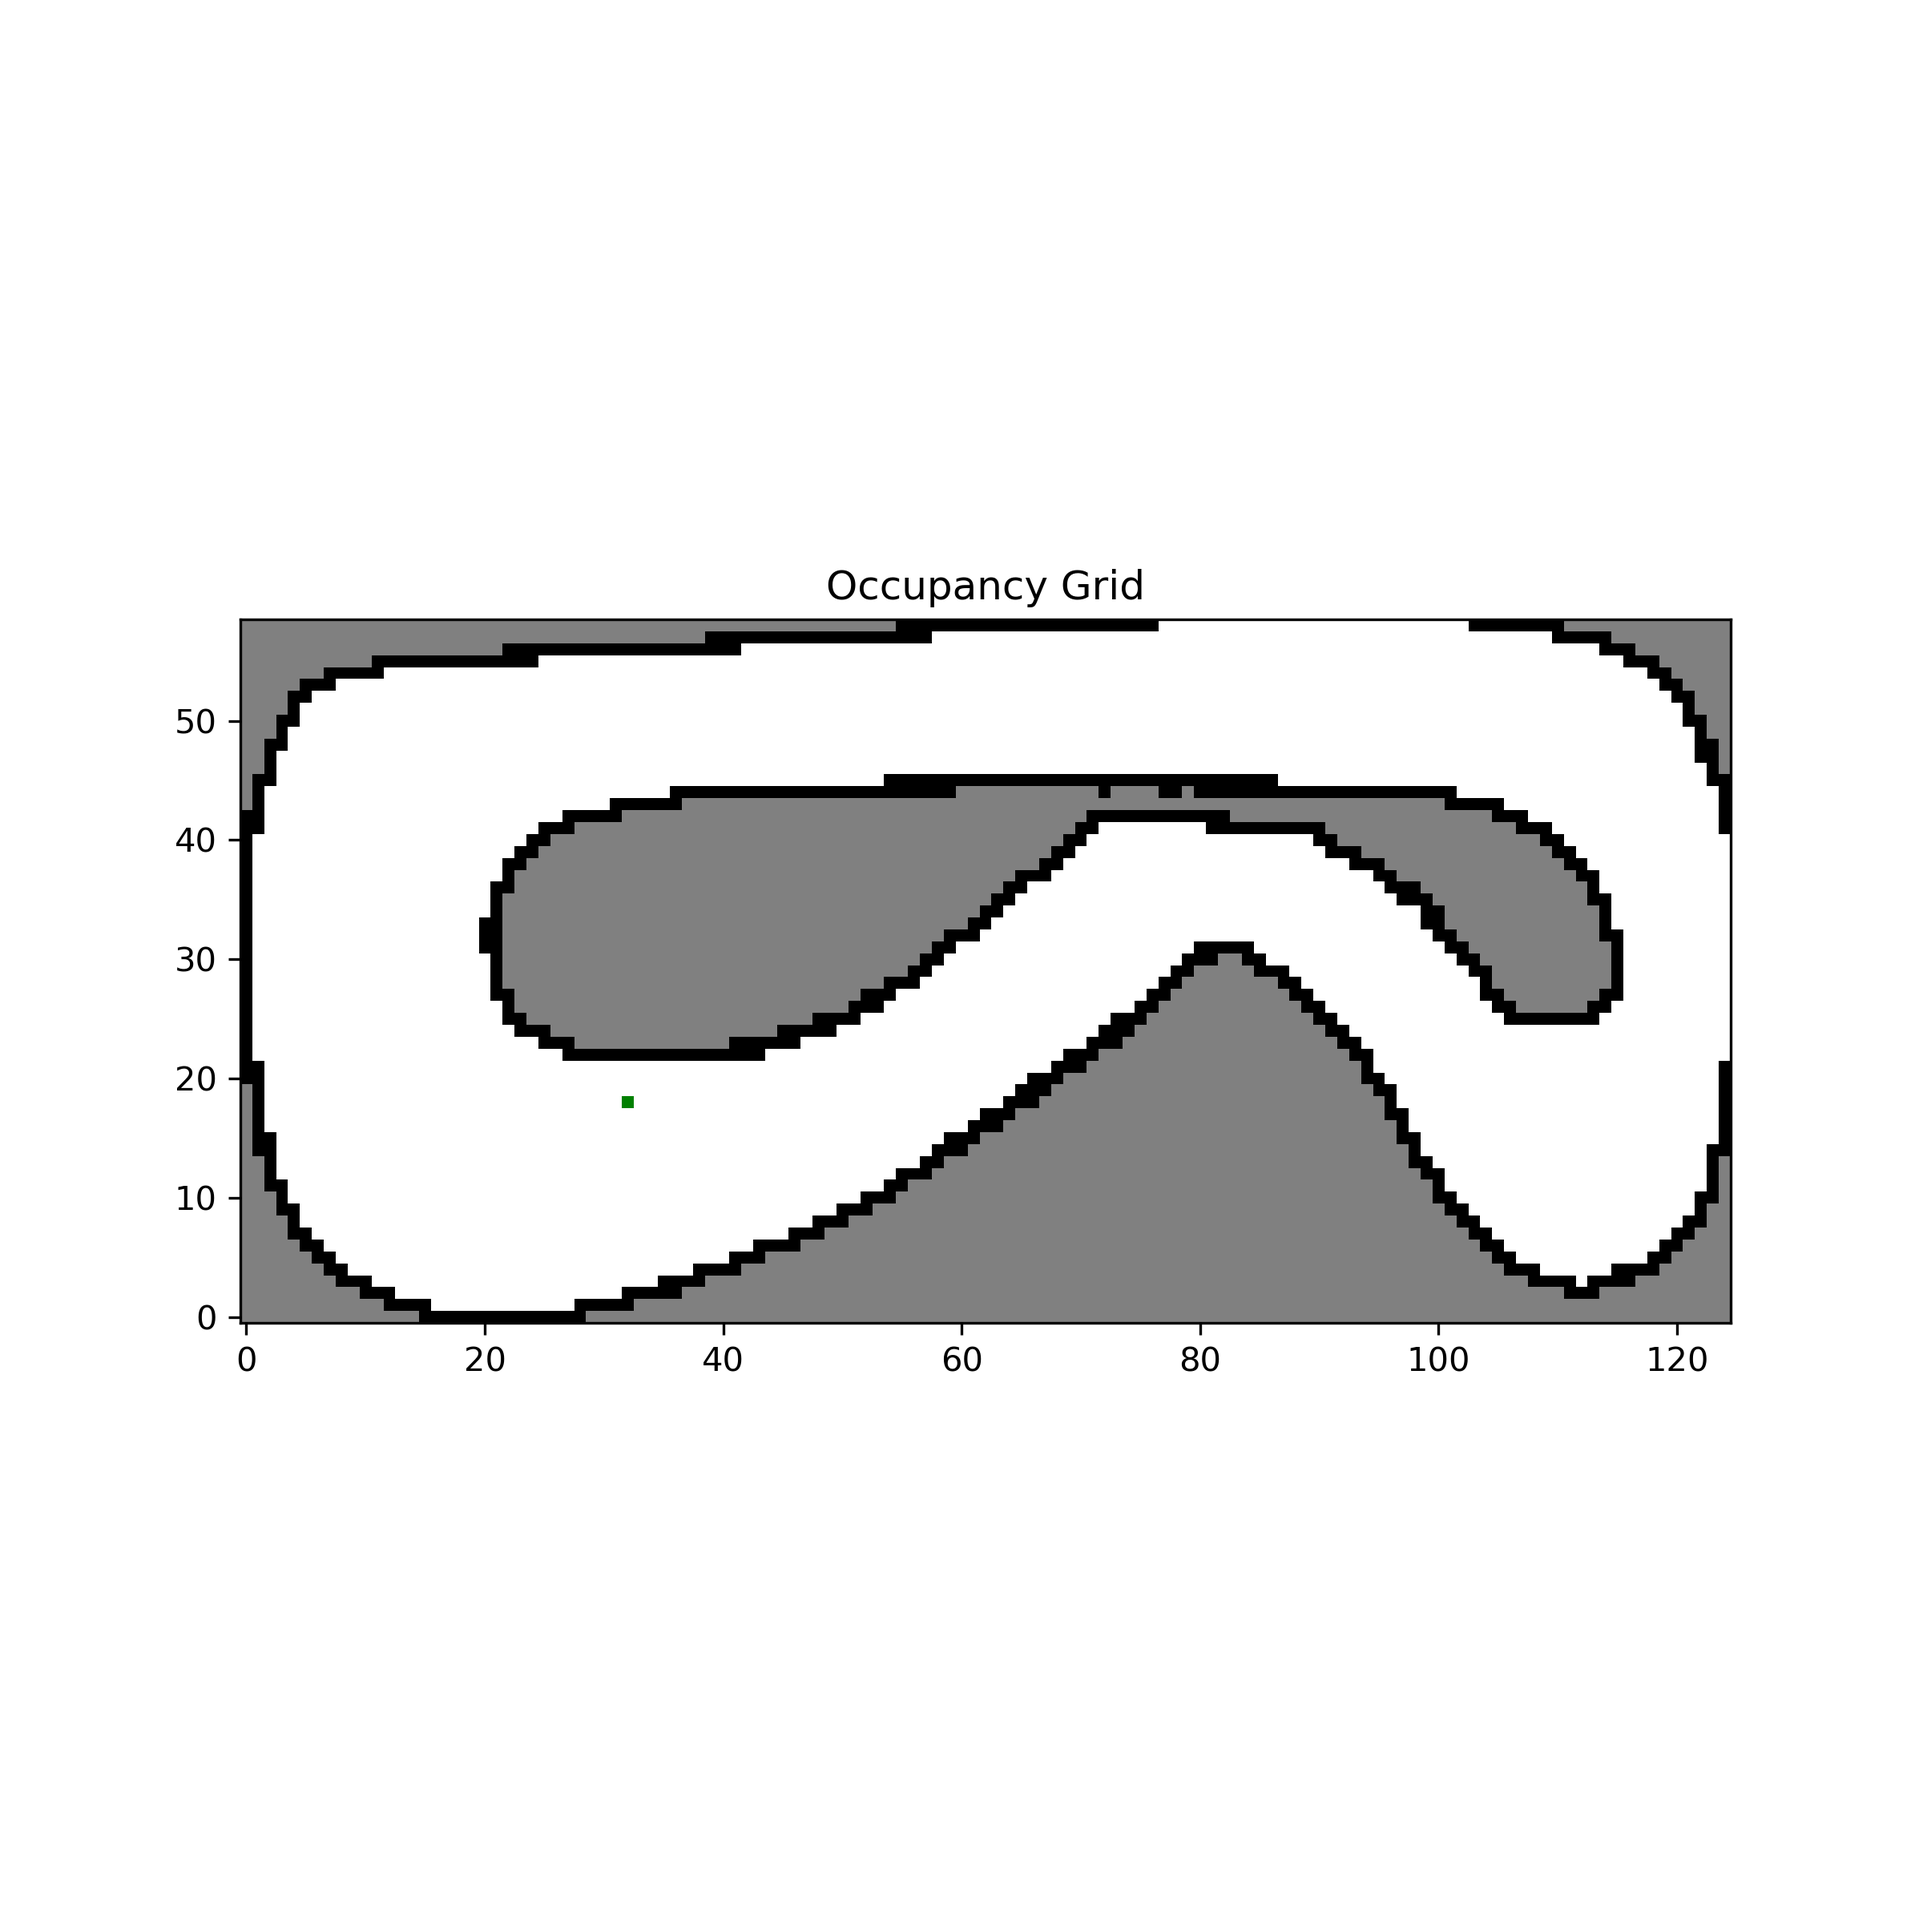
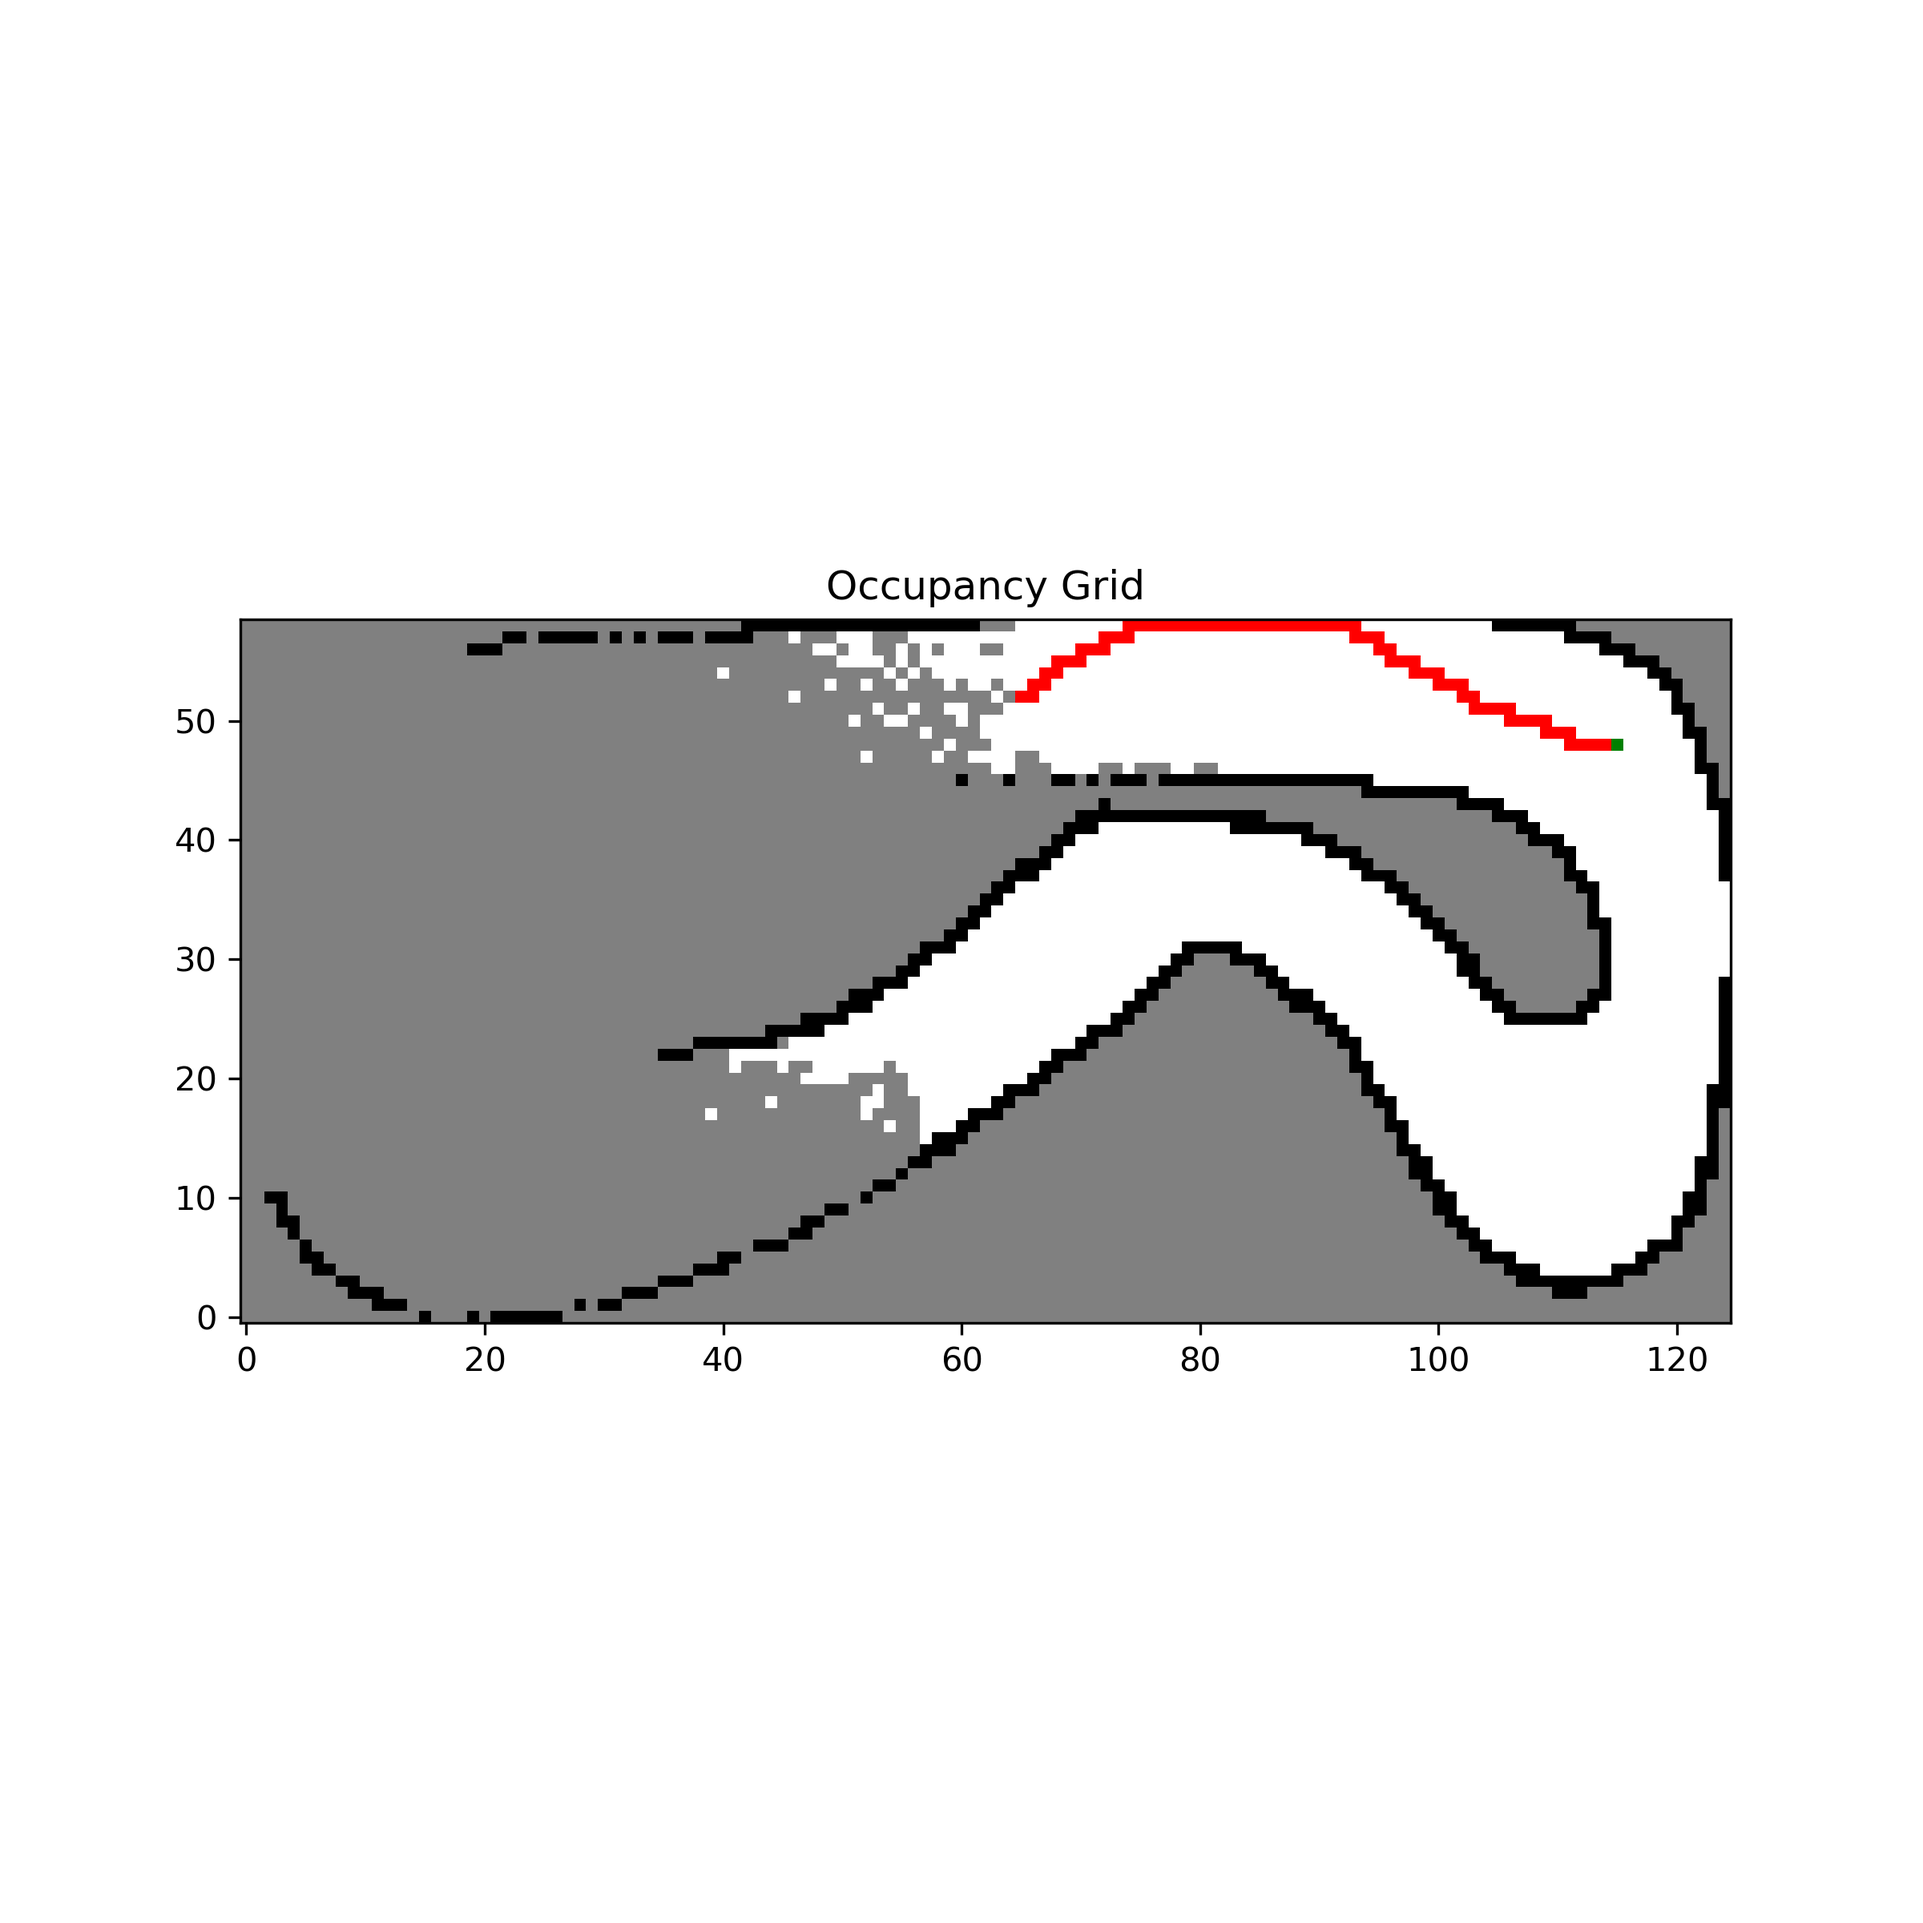
add auto explore code

diff --git a/src/f1tenth-sim/scripts/keyboard_teleop.py b/src/f1tenth-sim/scripts/keyboard_teleop.py
@@ -9,6 +9,7 @@ import tty
 from ackermann_msgs.msg import AckermannDrive
 
 from sensor_msgs.msg import LaserScan
+from nav_msgs.msg import Path
 
 
 keyBindings = {'w':(1.0,  0.0), # move forward
@@ -20,6 +21,8 @@ keyBindings = {'w':(1.0,  0.0), # move forward
 speed_limit = 0.250
 angle_limit = 0.325
 
+done_mapping = False
+
 def getKey():
    tty.setraw(sys.stdin.fileno())
    select.select([sys.stdin], [], [], 0)
@@ -30,7 +33,11 @@ def getKey():
 def vels(speed, turn):
   return 'currently:\tspeed {}\tturn {}'.format(speed, turn)
 
+def map_callback(msg):
+  global done_mapping
 
+  if len(msg.poses) == 0:
+    done_mapping = True
 
 
 # UNCOMMENT TO PRINT LIDAR DATA WHEN CAR COMES TO A STOP
@@ -67,7 +74,7 @@ if __name__== '__main__':
   rospy.init_node('keyboard_teleop', anonymous = True)
 
   #subscribe to Lidar data
-  #rospy.Subscriber('/car_1/scan', LaserScan, lidar_callback)
+  rospy.Subscriber('/planned_path', Path, map_callback)
 
 
   speed  = 0.0
@@ -76,6 +83,12 @@ if __name__== '__main__':
 
   try:
     while True:
+       if (done_mapping == True):
+        print("finished mapping")
+        speed = 0
+        angle = 0
+        break
+
        key = getKey()
        if key in keyBindings.keys():
           speed = keyBindings[key][0]

diff --git a/src/f1tenth-sim/scripts/map.py b/src/f1tenth-sim/scripts/map.py
@@ -67,7 +67,6 @@ def bfs_search_far_from_walls(grid, start, distance_map):
     visited.add(start)
 
     while queue:
-        # prioritize farther from wall
         queue = deque(sorted(queue, key=lambda x: -distance_map[x[0][0], x[0][1]]))
         (i, j), path = queue.popleft()
 
@@ -121,10 +120,7 @@ def map_callback(msg):
         print("Start position is occupied.")
         return
 
-    # Compute distance from walls
     distance_map = compute_distance_from_walls(grid)
-
-    # Run BFS preferring farther-from-wall cells
     path = bfs_search_far_from_walls(grid, (start_i, start_j), distance_map)
 
     if path:
@@ -150,11 +146,17 @@ def map_callback(msg):
         path_pub.publish(path_msg)
     else:
         print("No reachable unknown nodes found.")
+        path_msg = Path()
+        path_msg.header.frame_id = "map"
+        path_msg.header.stamp = rospy.Time.now()
+        path_msg.poses = []
+        path_pub.publish(path_msg)
 
     if grid[start_i, start_j] != 1:
         grid[start_i, start_j] = 3
 
     colors = ['gray', 'white', 'black', 'red', 'green']
+
     cmap = ListedColormap(colors)
     bounds = [-2, -0.5, 0.5, 1.5, 2.5, 3.5]
     norm = BoundaryNorm(bounds, cmap.N)

diff --git a/src/f1tenth-sim/scripts/auto_explore.py b/src/f1tenth-sim/scripts/auto_explore.py
@@ -11,7 +11,7 @@ import threading
 # Configurable parameters
 LOOKAHEAD_DISTANCE = 1
 MAX_LINEAR_SPEED = 0.1
-MAX_ANGULAR_SPEED = 0.3
+MAX_ANGULAR_SPEED = 0.6
 WHEELBASE = 0.5
 
 # Globals
